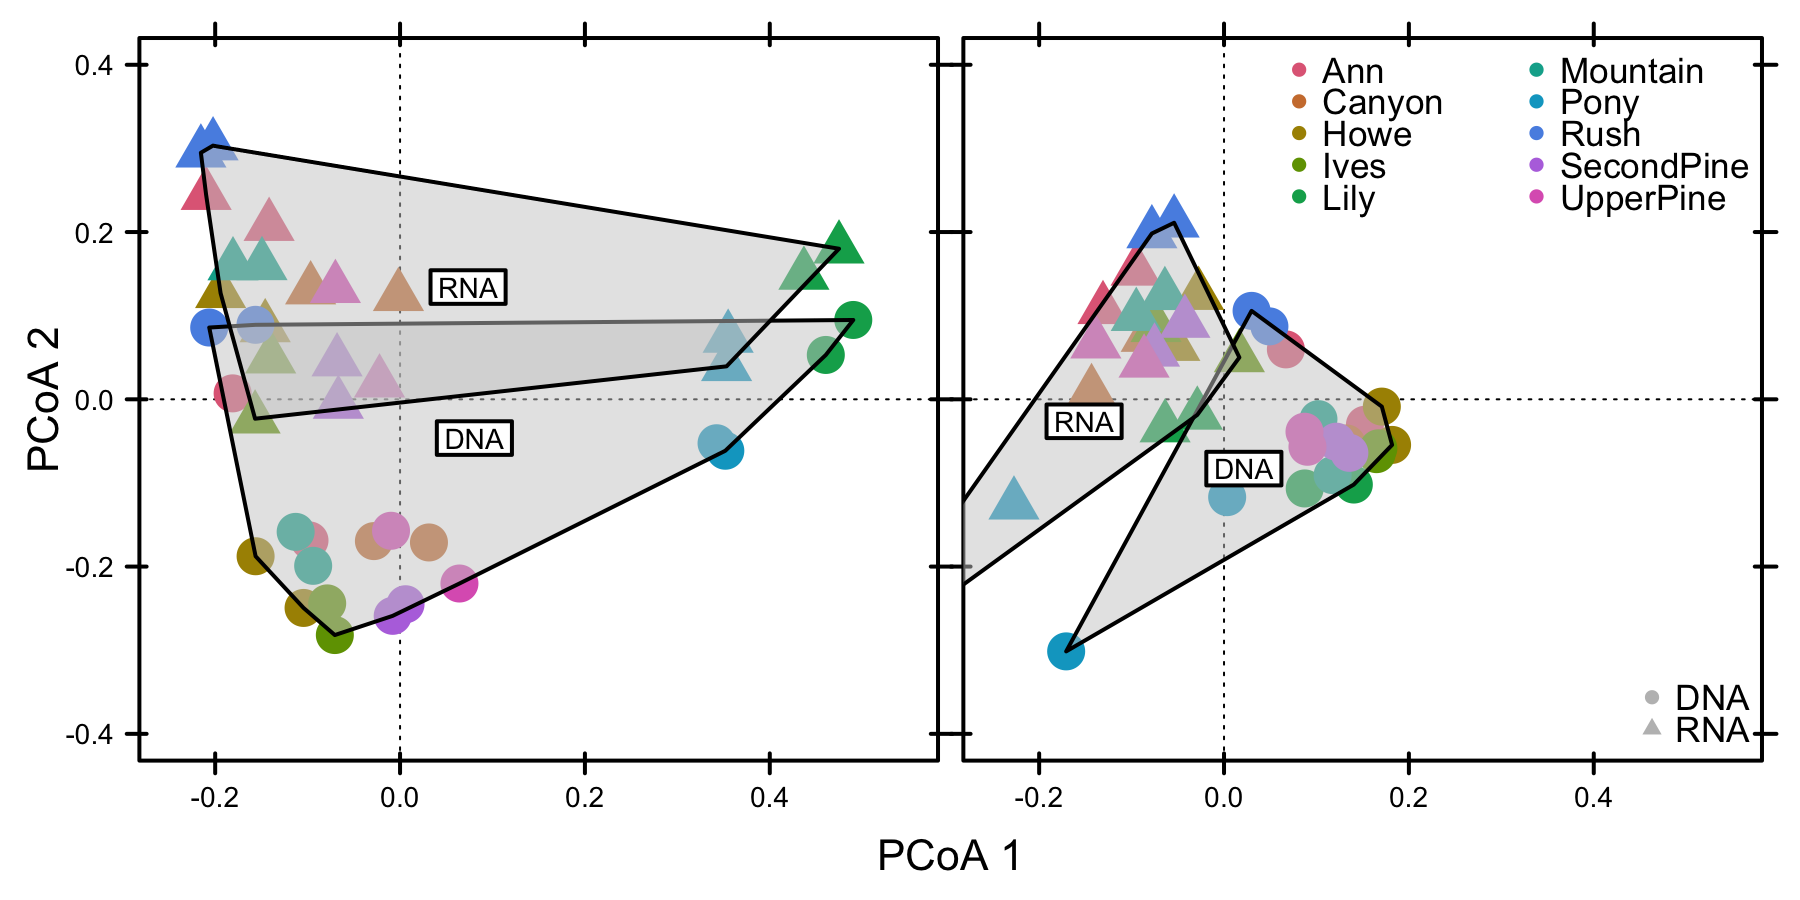
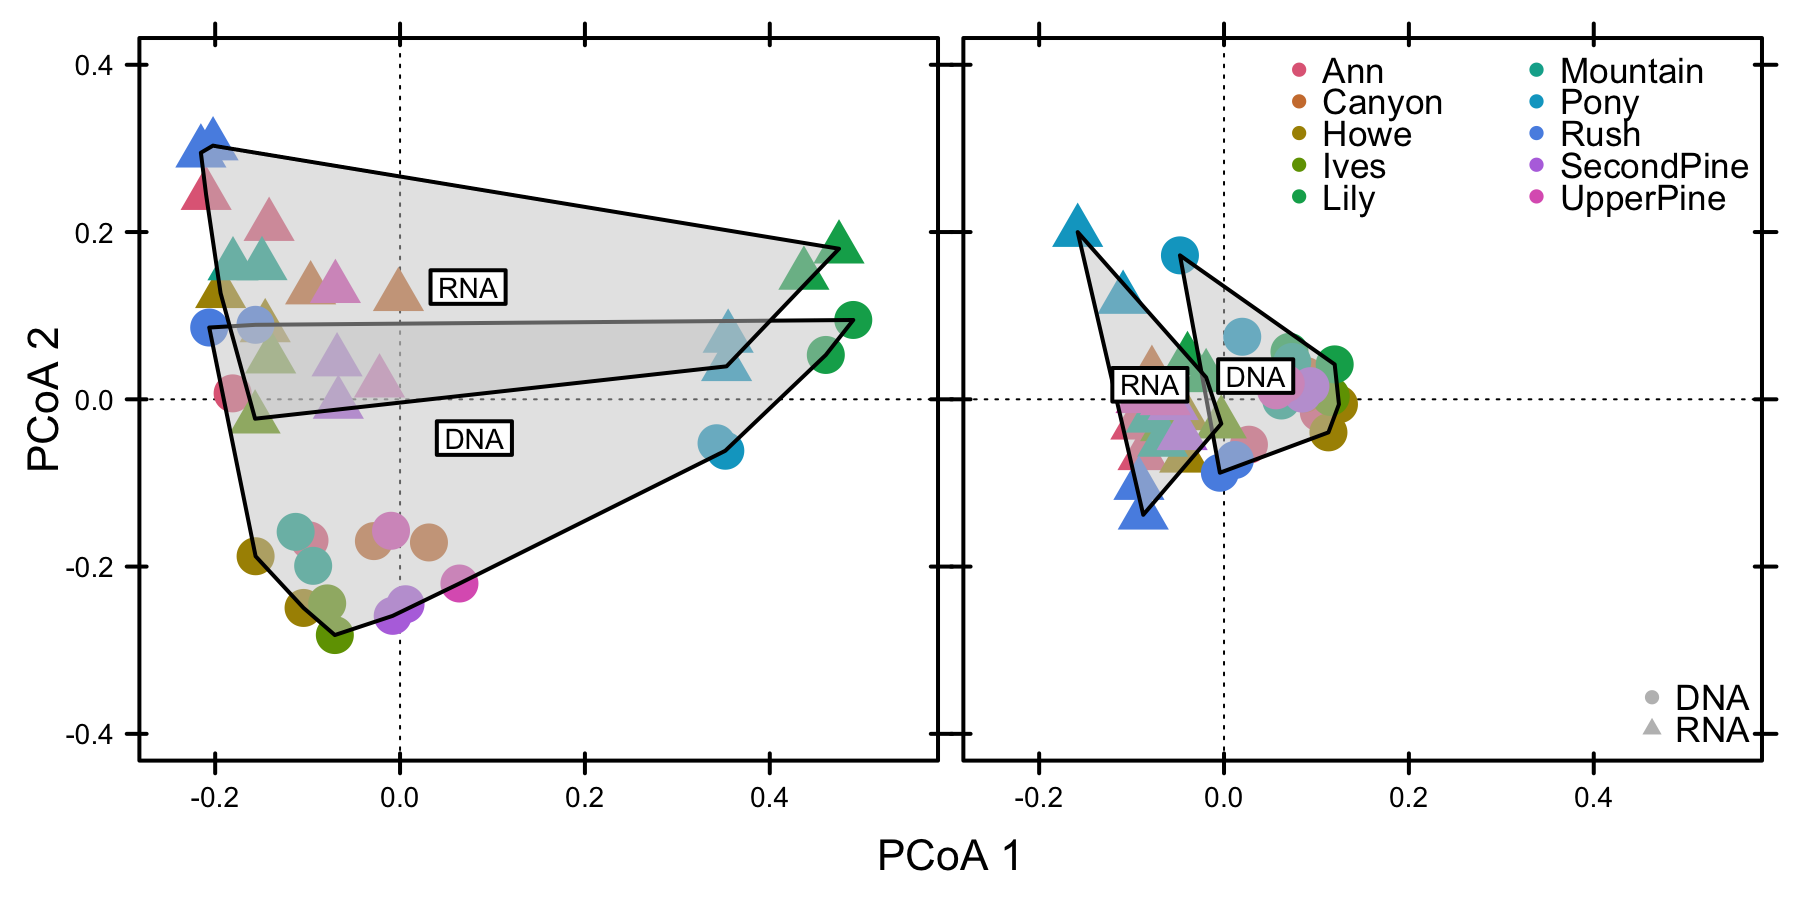
Adding dbRDA

Changed region(s): [[0.5289, 0.2178, 0.8089, 0.7467]]

diff --git a/tables/Table5.tex b/tables/Table5.tex
@@ -1,5 +1,5 @@
 % latex table generated in R 3.2.4 by xtable 1.8-2 package
-% Wed Apr  6 15:04:45 2016
+% Wed Apr  6 16:21:11 2016
 \begin{table}[ht]
 \centering
 \begin{tabular}{l r r r r }
@@ -11,12 +11,12 @@
                           \multicolumn{1}{c}{R\textsuperscript{2}} & 
                           \multicolumn{1}{c}{\emph{P}} \\
  \hline
-Bray-Curtis -- PA & 0.51 & 0.001 & 0.04 & 0.007 \\ 
+Bray-Curtis -- PA & 0.51 & 0.001 & 0.04 & 0.012 \\ 
   Bray-Curtis -- REL & 0.64 & 0.001 & 0.11 & 0.001 \\ 
-  Bray-Curtis -- Log & 0.60 & 0.001 & 0.03 & 0.006 \\ 
+  Bray-Curtis -- Log & 0.60 & 0.001 & 0.03 & 0.007 \\ 
   UniFrac -- PA & 0.45 & 0.001 & 0.05 & 0.001 \\ 
-  UniFrac -- REL & 0.53 & 0.001 & 0.24 & 0.001 \\ 
-  UniFrac -- Log & 0.52 & 0.001 & 0.28 & 0.001 \\ 
+  UniFrac -- REL & 0.53 & 0.001 & 0.26 & 0.001 \\ 
+  UniFrac -- Log & 0.58 & 0.001 & 0.11 & 0.001 \\ 
    \hline
 \end{tabular}
 \end{table}

diff --git a/tables/Table4.tex b/tables/Table4.tex
@@ -1,5 +1,5 @@
 % latex table generated in R 3.2.4 by xtable 1.8-2 package
-% Wed Apr  6 15:02:59 2016
+% Wed Apr  6 16:19:24 2016
 \begin{table}[ht]
 \centering
 \begin{tabular}{c r r r r  r r r r r }

diff --git a/tables/table2.tex b/tables/table2.tex
@@ -1,5 +1,5 @@
 % latex table generated in R 3.2.4 by xtable 1.8-2 package
-% Wed Apr  6 14:59:03 2016
+% Wed Apr  6 16:15:06 2016
 \begin{table}[ht]
 \centering
 \begin{tabular}{crrrrrr}

diff --git a/tables/table1.tex b/tables/table1.tex
@@ -1,5 +1,5 @@
 % latex table generated in R 3.2.4 by xtable 1.8-2 package
-% Wed Apr  6 14:58:58 2016
+% Wed Apr  6 16:15:00 2016
 \begin{table}[ht]
 \centering
 \begin{tabular}{ccc}
